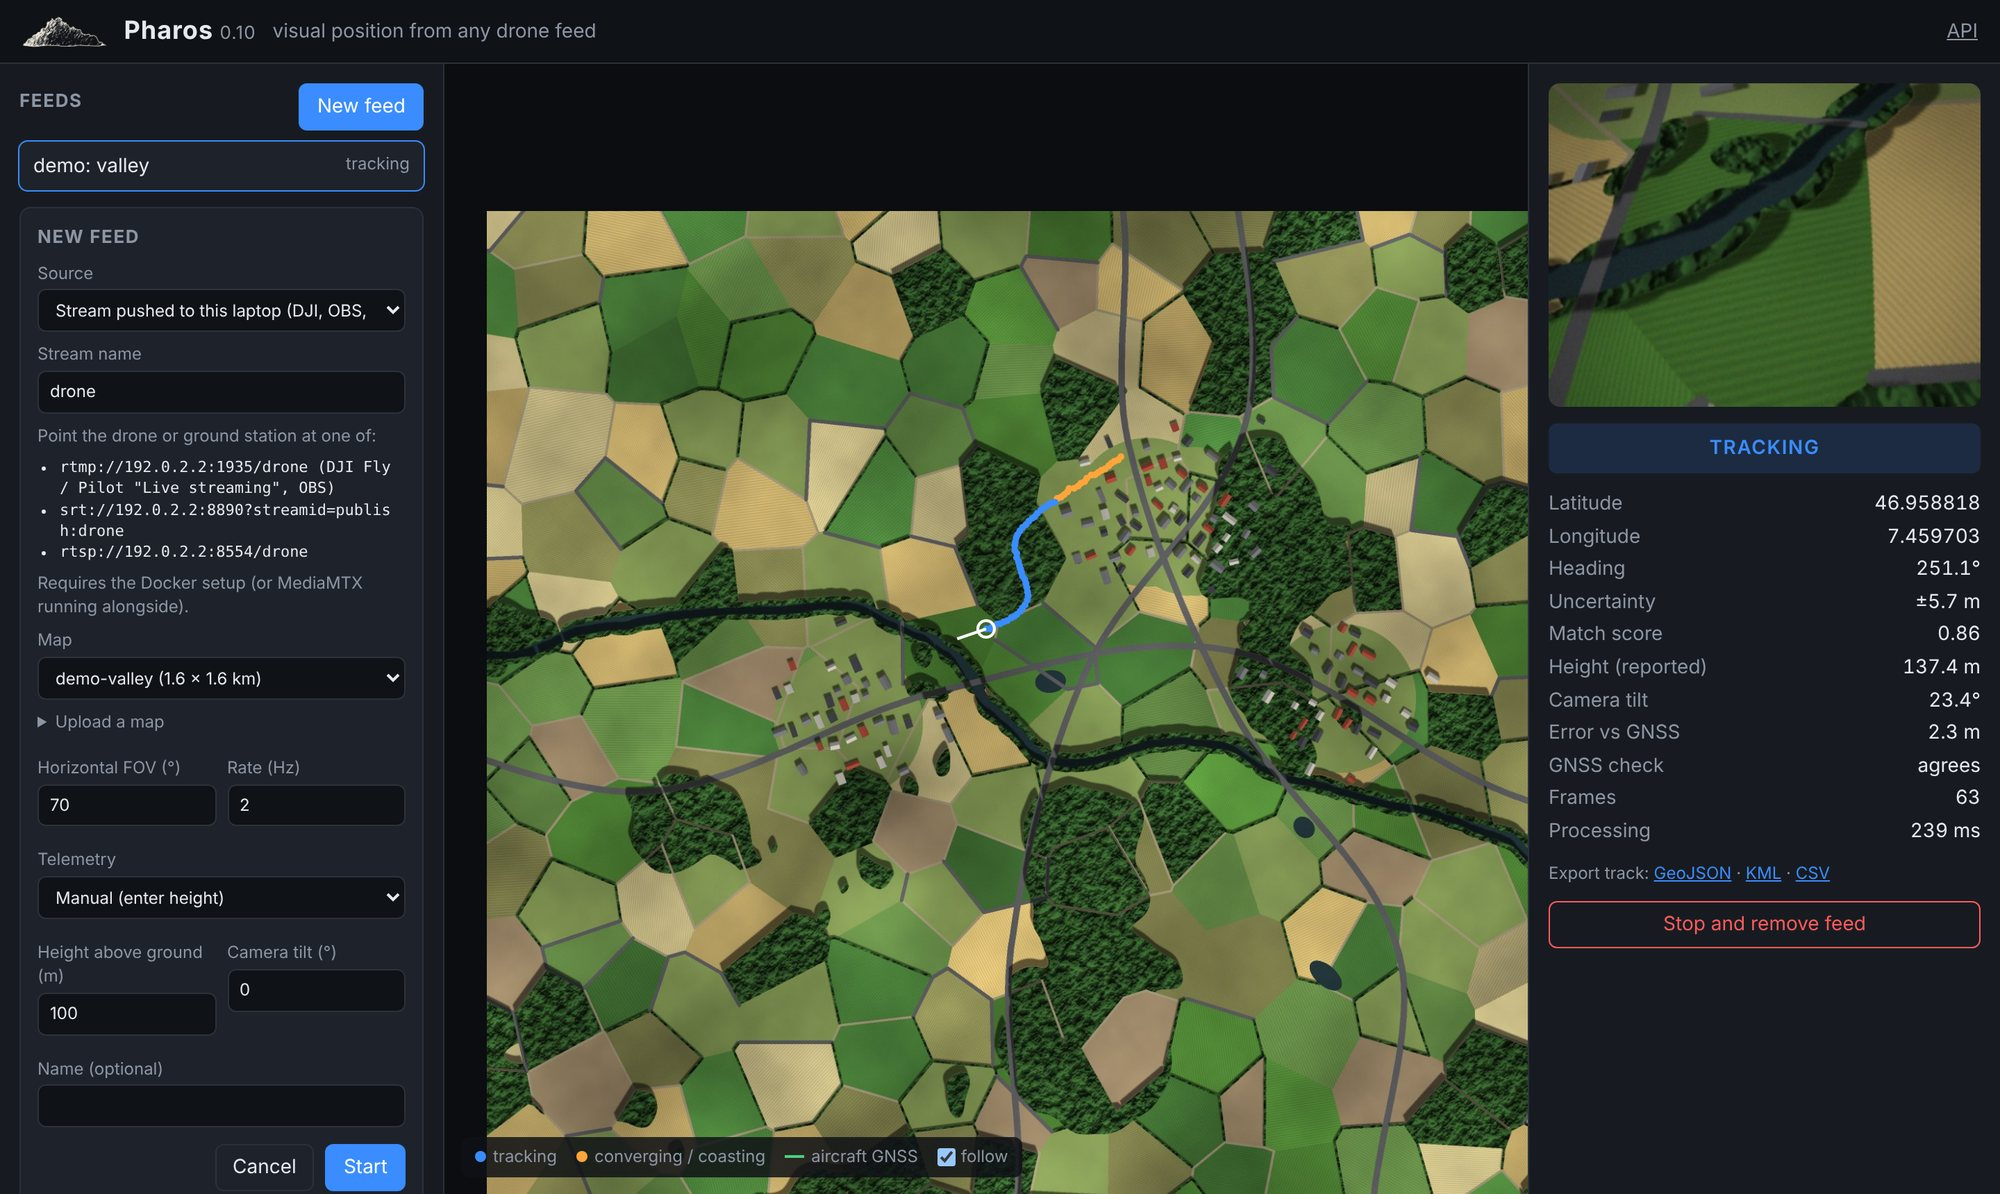
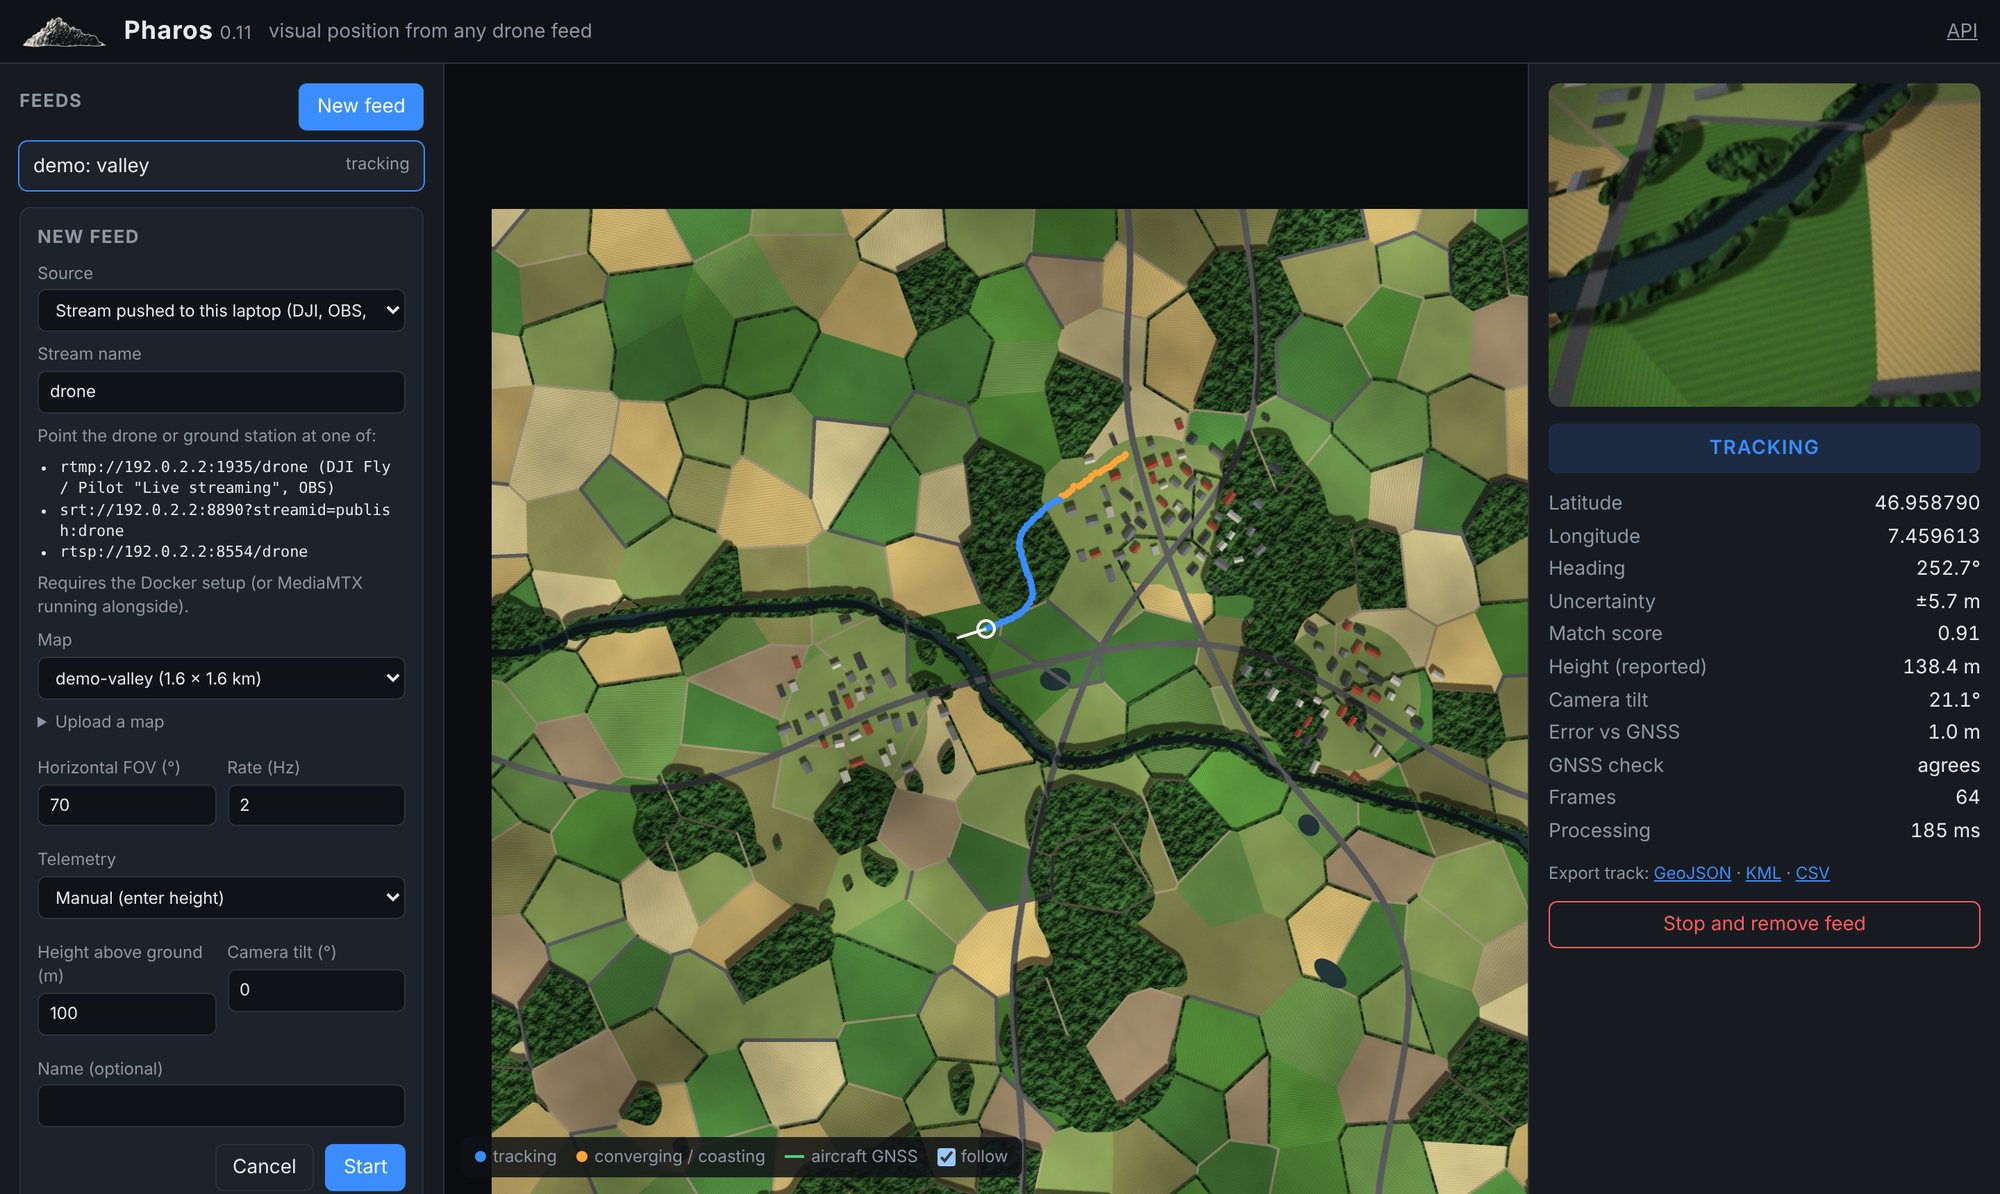
Pharos 0.11: run-it-yourself guide in the README, labels and cleanup
The README now leads with running Pharos on your own computer, with and
without Docker, and keeps going online as an optional extra. Workflows
are named CI and Deploy to Hugging Face, both Docker images carry
standard labels, the package names its author and links, and the docs
call the product Pharos wherever they mean it rather than the command.

diff --git a/src/pharos/server/static/index.html b/src/pharos/server/static/index.html
@@ -3,14 +3,14 @@
 <head>
   <meta charset="utf-8">
   <meta name="viewport" content="width=device-width, initial-scale=1">
-  <title>Pharos 0.10</title>
+  <title>Pharos 0.11</title>
   <link rel="icon" type="image/png" href="/static/logo.png">
   <link rel="stylesheet" href="/static/style.css">
 </head>
 <body>
   <header>
     <img class="logo" src="/static/logo.png" alt="">
-    <h1>Pharos <span class="version">0.10</span></h1>
+    <h1>Pharos <span class="version">0.11</span></h1>
     <span class="tagline">visual position from any drone feed</span>
     <a href="/api/docs" target="_blank" rel="noopener">API</a>
   </header>

diff --git a/src/pharos/__init__.py b/src/pharos/__init__.py
@@ -1,3 +1,3 @@
 """Pharos: absolute visual localization of drone video against satellite imagery."""
 
-__version__ = "0.10"
+__version__ = "0.11"

diff --git a/docs/results.md b/docs/results.md
@@ -138,7 +138,7 @@ already pulled 60 or 120 m off, while it still claimed 10 m
 (`stress_spoofed_start`, `stress_spoofed_start_far`), is never followed into
 a wrong trusted position: the track coasts with its sigma until matches
 place it, trusted after 16 and 50 s. Heights read 30 m high, from a takeoff
-on a hill pharos was not told about, over flat ground with no terrain to
+on a hill Pharos was not told about, over flat ground with no terrain to
 correct them (`stress_takeoff_hill`), leave the flight 10% covered: the wide
 search finds the place at once, but each candidate's later matches search
 only 6% either side of one shared altitude scale, and it takes 107 s to
@@ -158,7 +158,7 @@ on flights.
 Three public datasets, all free, each localized from a cold start with no
 initial position; GNSS is used only to calibrate a camera once and to score.
 Heights are barometric, corrected with the free Copernicus terrain model at
-pharos's own position, so they need no GNSS either.
+Pharos's own position, so they need no GNSS either.
 Every frame of a flight counts. A frame is **covered** when its position is
 trusted and within 25 m of GNSS, and **misleading** when it is trusted and
 further off. A trusted position has an uncertainty of at most 10 m and two
@@ -222,17 +222,17 @@ raw DJI recordings with their `.SRT` files. One 6-minute DJI Mavic 3T segment
 orthophoto. The survey flew 55 m above the ground (each frame sees about
 70 × 40 m), mostly over continuous autumn forest and harvested fields
 against a summer map, and the true location stood out in only 12% of
-frames. From a cold start pharos never confirmed a position on it, nor
+frames. From a cold start Pharos never confirmed a position on it, nor
 reported a wrong one, even given Airdata's heights. It also showed that DJI's `rel_alt` is height above
 takeoff even on terrain-following missions: it read 46 to 112 m, a median
 42 m too high, while the drone held 50 to 63 m above the ground. With the
-Copernicus terrain model pharos brings that to within 3.5 m (median) of
+Copernicus terrain model Pharos brings that to within 3.5 m (median) of
 Airdata's height above ground, most of the rest being forest canopy, which
 the camera sees too.
 
 The segment starts in mid-air, so it is also the case `--known-start` is
 for: GNSS good at the start and lost after. From the first fixes (5 m), with
-the raw `rel_alt` and the height learned from the speed, pharos covered 75%
+the raw `rel_alt` and the height learned from the speed, Pharos covered 75%
 of the 6 minutes after the flight and 70% live, median error 1.7 m (live
 1.9 m, 95th percentile 2.9 m and 8.3 m), with no trusted position wrong and
 every position, trusted or coasting, within three sigmas; it had a position
@@ -246,7 +246,7 @@ GNSS used only to score:
 
 * *Meadows near Klagenfurt at 30 m* (BAMBI flight 271, Mavic 3T, June 2023,
   basemap.at at 0.3 m, takeoff from the Airdata log's first row). From a
-  known start pharos had a position within 25 m of GNSS in 99.9% of frames
+  known start Pharos had a position within 25 m of GNSS in 99.9% of frames
   after the flight and 97.8% live, median error 1.7 m, trusted 32% of the
   time (16% live), nothing wrong and every position within three sigmas.
   From a cold start nothing was confirmed: the flight stays in a 200 × 130 m
@@ -359,7 +359,7 @@ to about 6 m).
   median 42 m too high on a terrain-following survey, and over flight 2's
   valley the height above home was up to 23 m off the ground. Copernicus
   GLO-30 at the GNSS position agrees with ArduPilot's own terrain database to
-  a median of 1 to 2 m on both PinPoint flights, and pharos looks it up at
+  a median of 1 to 2 m on both PinPoint flights, and Pharos looks it up at
   its own position instead. Over a steep valley side a position error becomes
   a height error (a track 40 m off read the ground 10 to 15 m wrong), so the
   terrain is averaged over where the aircraft may be.

diff --git a/README.md b/README.md
@@ -2,10 +2,10 @@
   <img src="docs/img/logo.png" alt="Pharos" width="420">
 </p>
 
-<h1 align="center">Pharos 0.10</h1>
+<h1 align="center">Pharos 0.11</h1>
 
 <p align="center">
-  <a href="https://github.com/ahroonsanthosh/pharos/actions/workflows/ci.yml"><img src="https://github.com/ahroonsanthosh/pharos/actions/workflows/ci.yml/badge.svg" alt="ci"></a>
+  <a href="https://github.com/ahroonsanthosh/pharos/actions/workflows/ci.yml"><img src="https://github.com/ahroonsanthosh/pharos/actions/workflows/ci.yml/badge.svg" alt="CI"></a>
 </p>
 
 I built Pharos because I wanted a drone to know where it is when GPS stops
@@ -45,23 +45,56 @@ I tried and threw away are in [docs/results.md](docs/results.md).
 coasting) over the GPS track (green). Orthophoto: PNOA © Instituto
 Geográfico Nacional, CC BY 4.0.</sub>
 
-## Try it
+## Run it on your own computer
+
+Pharos is meant to run on your own machine. Nothing is sent anywhere, it
+needs no account or internet once installed, and this is the only way to
+plug in a live drone. Any recent laptop works: Windows, macOS or Linux.
+
+**With Docker (easiest).** Install
+[Docker Desktop](https://www.docker.com/products/docker-desktop/) (Docker
+Engine on Linux), then in a terminal:
 
 ```bash
-git clone https://github.com/ahroonsanthosh/pharos.git && cd pharos
-docker compose up            # then open http://localhost:8000
+git clone https://github.com/ahroonsanthosh/pharos.git
 ```
 
-Hit **New feed** and pick the demo flight to see it work straight away. It
-also takes a DJI controller or OBS over RTMP/SRT, RTSP/HLS/UDP streams, a
-capture card or webcam, or recorded video with DJI `.SRT` files. If the
-drone reports GPS, I draw it next to the estimate so you can judge the
-accuracy for yourself. Setup for each source is in
-[docs/laptop.md](docs/laptop.md).
+```bash
+cd pharos
+```
+
+```bash
+docker compose up
+```
+
+The first start builds everything and takes a few minutes; after that it
+starts in seconds. Open **http://localhost:8000** in your browser. Stop it
+with `Ctrl+C`. Your maps and uploaded videos stay in the `pharos-data`
+folder.
+
+**Without Docker.** With Python 3.11 or newer, from the `pharos` folder:
+
+```bash
+pip install -e ".[server,geo]"
+```
+
+```bash
+pharos serve --open
+```
+
+That opens the dashboard in your browser. Live streams pushed from a drone
+controller also need [MediaMTX](https://github.com/bluenviron/mediamtx/releases)
+running alongside (Docker includes it).
+
+**First run.** Click **New feed**, keep **Demo flight** and press
+**Start**. A simulated flight is generated and tracked live in about 15 s.
+After that, try your own footage: a DJI controller or OBS over RTMP/SRT,
+RTSP/HLS/UDP streams, a capture card or webcam, or recorded video with its
+DJI `.SRT` file. If the drone reports GPS, I draw it next to the estimate so
+you can judge the accuracy for yourself. Setup for each source, ports and
+firewall notes are in [docs/laptop.md](docs/laptop.md).
 
 ![Adding a live feed](docs/img/feed.jpg)
-
-To put a public demo online for free, see [docs/deploy.md](docs/deploy.md).
 
 **Start from GPS** takes one fix at takeoff and never uses GPS again, so
 jamming later on can't drag it off course. The **GNSS check** then flags a
@@ -80,6 +113,13 @@ You get the track as GeoJSON, KML (opens in Google Earth) and CSV, plus a
 summary that scores Pharos against the footage's own GPS if it has any.
 `pharos --help` covers syncing a camera to an autopilot log, calibrating a
 camera and starting from a known position.
+
+## Put it online
+
+You don't need to, but if you want others to try it in a browser, a free
+Hugging Face Space works, and pushes to `main` keep it up to date. A public
+server runs in a safe mode: demo flights, the visitor's own camera and
+uploaded footage only. Steps in [docs/deploy.md](docs/deploy.md).
 
 ## How it works
 

diff --git a/docs/data.md b/docs/data.md
@@ -33,7 +33,7 @@ imagery (the Republic) is licensed, OSNI's (Northern Ireland) is sold apart
 from a 10 cm strip along the Northern Irish coast (OpenDataNI), and the EU's
 2 to 4 m Copernicus mosaic can only be viewed, not downloaded. Two free routes
 remain: map the area yourself with the drone (fly a survey grid once, with
-GNSS, and build an orthophoto with the free OpenDroneMap; pharos reads its
+GNSS, and build an orthophoto with the free OpenDroneMap; Pharos reads its
 GeoTIFF directly), or license the national imagery for the area you operate
 in. For terrain, Geological Survey Ireland publishes LiDAR elevation models
 (1 to 2 m, CC BY 4.0) where it has flown; pass one with `--dem`.
@@ -56,7 +56,7 @@ benchmark).
 
 ## Terrain
 
-Barometric heights are above the takeoff point, not the ground, so pharos
+Barometric heights are above the takeoff point, not the ground, so Pharos
 also needs the ground's elevation under the map. `pharos analyze`, `probe`
 and live feeds fetch it automatically when the telemetry's heights are above
 takeoff: **Copernicus GLO-30**, a 30 m surface model of the whole world (ESA,
@@ -123,19 +123,19 @@ recording format above is only needed for simulated flights.
   evaluation run.
 * **Height above ground:** barometric height is relative to takeoff, so it
   is wrong wherever the ground is higher or lower. With [terrain](#terrain)
-  pharos turns it into height above the ground at its own position estimate,
+  Pharos turns it into height above the ground at its own position estimate,
   which needs the takeoff point's elevation: from `--takeoff LAT LON`, from
   the telemetry when the recording starts on the ground (or MAVLink's home
   position), and otherwise learned from the first confirmed track. On two
   real flights this agreed with ArduPilot's own terrain database to a median
-  of 1 to 2 m. From an ArduPilot log pharos takes the barometric height and
+  of 1 to 2 m. From an ArduPilot log Pharos takes the barometric height and
   does its own terrain lookup, which needs no GNSS and covered more of a real
   flight. `--log-height terrain` uses the autopilot's terrain database
   instead (logged with `TERRAIN_ENABLE`, looked up at the autopilot's GNSS
-  position), which is also the fallback when pharos has no terrain.
+  position), which is also the fallback when Pharos has no terrain.
 * **DJI specifics:** the `.SRT`'s `rel_alt` is height above takeoff even on
   terrain-following missions: on a real Mavic 3T survey it read 46 to 112 m
-  while the drone held 50 to 63 m above the ground. With terrain, pharos
+  while the drone held 50 to 63 m above the ground. With terrain, Pharos
   brought that to within 3.5 m (median) of Airdata's height above ground.
   Its `abs_alt` is above the WGS84 ellipsoid (about 47 m above sea level in
   Austria), not sea level. Phantom 4 subtitles (`RTK (lon, lat, alt)` or

diff --git a/docs/laptop.md b/docs/laptop.md
@@ -1,4 +1,4 @@
-# Running Pharos on a laptop
+# Running Pharos on your own computer
 
 Pharos runs as a small local service with a dashboard in your browser. It
 needs no internet once installed, and all of it is free.
@@ -25,7 +25,7 @@ needs no internet once installed, and all of it is free.
 Stop with `Ctrl+C` (or `docker compose down`). Maps and uploaded videos are
 kept in `pharos-data/` next to the code.
 
-The stack runs two containers: **pharos** (dashboard, API, localization) and
+The stack runs two containers: **Pharos** (dashboard, API, localization) and
 **MediaMTX** (receives video pushed over RTMP, SRT or RTSP).
 
 | port | used for |
@@ -159,7 +159,7 @@ ffmpeg -re -i flight.mp4 -c:v libx264 -tune zerolatency -f flv rtmp://localhost:
 * **lost**: no confident match (over featureless ground, or before the first
   fix). Pharos says so instead of guessing.
 * **Error vs GNSS** appears whenever the aircraft reports its own GPS.
-* **GNSS check** compares that GPS with pharos's own position while pharos
+* **GNSS check** compares that GPS with Pharos's own position while Pharos
   trusts it. *disagrees* (the status bar turns red) means GPS has been
   further off than both uncertainties allow for more than 3 s: a spoofed
   receiver looks like this, since it keeps a confident fix while it walks

diff --git a/docs/architecture.md b/docs/architecture.md
@@ -269,7 +269,7 @@ its matches measuring the height above the ground it saw. Copernicus GLO-30
 is a surface model: over forest it gives the canopy top, which is what the
 camera sees. Heights the aircraft measured above the ground itself (a
 rangefinder) are used as they are. ArduPilot's terrain database is looked up
-at the autopilot's GNSS position, so pharos prefers the barometric height and
+at the autopilot's GNSS position, so Pharos prefers the barometric height and
 its own lookup, which also covered more of a real flight (PinPoint 2: 90%
 against 77%). Over a steep slope a position error becomes a height error, so
 the terrain is averaged over the position's uncertainty: its sigma for

diff --git a/docs/deploy.md b/docs/deploy.md
@@ -13,7 +13,7 @@ next visit). Every push to `main` updates it through
    * add a **secret** `HF_TOKEN` with that token;
    * add a **variable** `HF_SPACE` with the Space to publish to, such as
      `your-hf-name/pharos` (the workflow creates it if it does not exist).
-4. Run the **deploy** workflow from the Actions tab, or push to `main`. The first
+4. Run the **Deploy to Hugging Face** workflow from the Actions tab, or push to `main`. The first
    build takes a few minutes; the Space is then at
    `https://huggingface.co/spaces/your-hf-name/pharos`.
 
